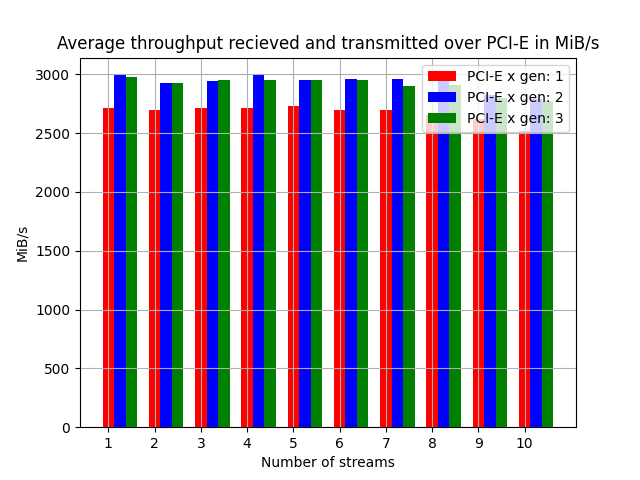
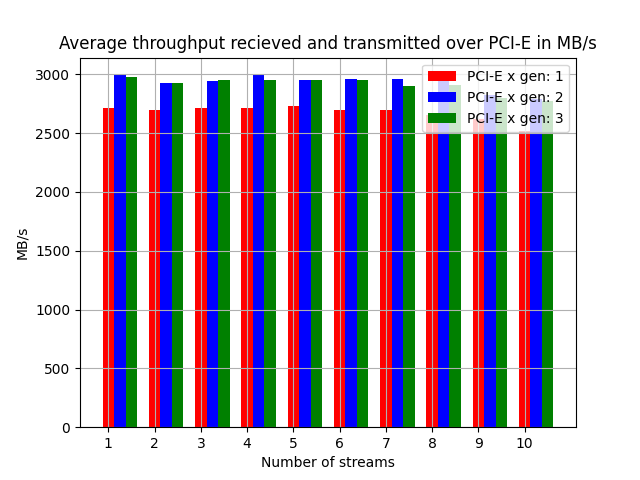
Fix labelling again again

Changed region(s): [[0.0938, 0.0625, 0.9375, 0.125], [0.0, 0.4688, 0.0625, 0.5625]]

diff --git a/handin_2/build_graphs.py b/handin_2/build_graphs.py
@@ -93,16 +93,16 @@ def build_stress_test_bar_chart(test_type:str, report_name = None, dir = DATA_FO
         plt.bar(x, encoders[pci_gen], color=color, width=bar_width, label=label)
 
         plt.figure(4)
-        plt.title(f"Average throughput transmitted over PCI-E in MiB/s")
+        plt.title(f"Average throughput transmitted over PCI-E in MB/s")
         plt.bar(x, txs[pci_gen], color=color, width=bar_width, label=label)
 
         plt.figure(5)
-        plt.title(f"Average throughput recieved over PCI-E in MiB/s")
+        plt.title(f"Average throughput recieved over PCI-E in MB/s")
         plt.bar(x, rxs[pci_gen], color=color, width=bar_width, label=label)
 
         if test_type == "stress_test" or test_type == "gpu" or test_type == "two_process":
             plt.figure(6)
-            plt.title(f"Average throughput recieved and transmitted over PCI-E in MiB/s")
+            plt.title(f"Average throughput recieved and transmitted over PCI-E in MB/s")
             plt.bar(x, [a + b for a, b in zip(rxs[pci_gen], txs[pci_gen])], color=color, width=bar_width, label=label)
 
     names = ["time", "sm", "dec", "enc", "tx", "rx"]
@@ -122,7 +122,7 @@ def build_stress_test_bar_chart(test_type:str, report_name = None, dir = DATA_FO
         elif n == "time":
             plt.ylabel("Seconds")
         else:
-            plt.ylabel("MiB/s")
+            plt.ylabel("MB/s")
         plt.savefig(os.path.join(OUT_PATH, f"{test_type}_graph_{n}.png"))
         plt.clf()
         plt.cla()
